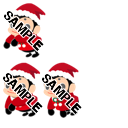
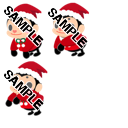
add sample text on pvr

diff --git a/SampleCode/projects/RecipeBook/Classes/recipes/Recipe76.h b/SampleCode/projects/RecipeBook/Classes/recipes/Recipe76.h
@@ -28,9 +28,6 @@ public:
     virtual bool init();
     static cocos2d::CCScene* scene(int step);
     CREATE_FUNC(Recipe76);
-
-    //virtual void onEnter();
-    //virtual void onExit();
 };
 
 #endif /* defined(__RecipeBook__Recipe76__) */
